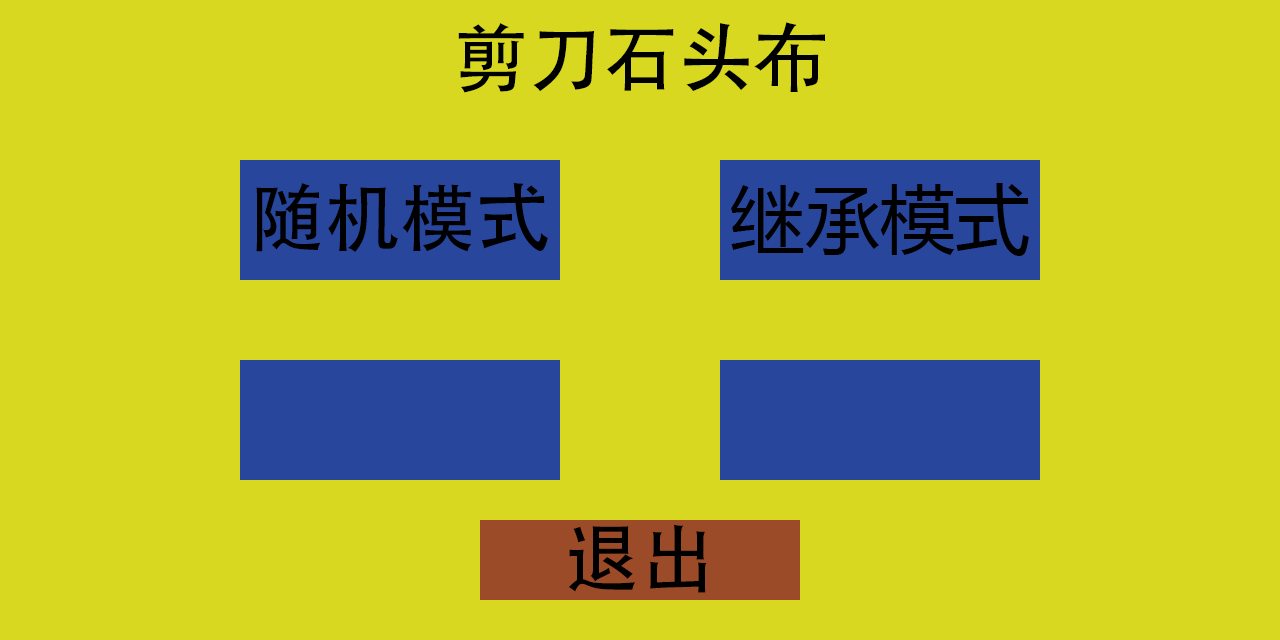
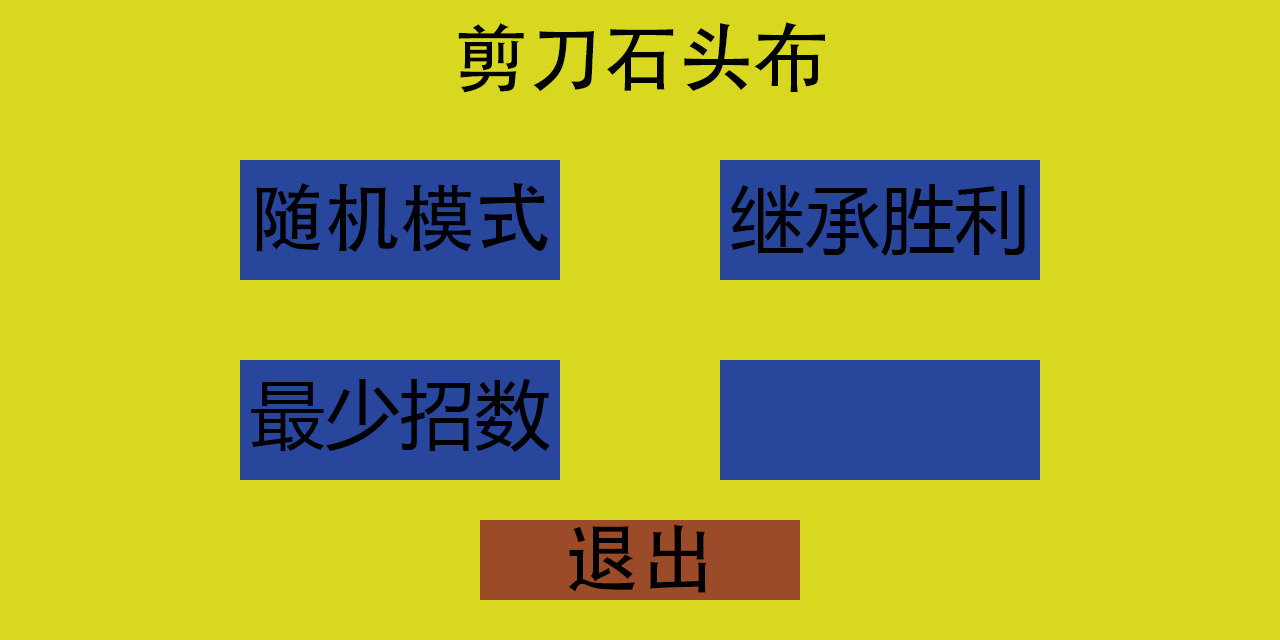
修改随机数的生成方式，新增最少招数的模式

Changed region(s): [[0.1875, 0.5938, 0.4375, 0.7188], [0.6875, 0.2812, 0.8125, 0.4062]]

diff --git a/class.cpp b/class.cpp
@@ -23,12 +23,19 @@ int Player::play()
 	return value;
 }
 
+int Player::random(int a, int b)
+{
+	random_device rd;
+	mt19937 gen(rd());
+	uniform_int_distribution<int32_t> distrib(a, b);
+	return distrib(gen);
+}
 
 //Random相关函数
 
 int Random::play()
 {
-	value = rand() % 3 + 1;
+	value = random(1, 3);
 	return value;
 }
 
@@ -43,11 +50,57 @@ int Inherit::play()
 	}
 	else
 	{
-		last_win_value = rand() % 3 + 1;
+		last_win_value = random(1, 3);
 	}
-	if(last_win_value == UNDEDINED_PLAY)
-		value = rand() % 3 + 1;
+	if (last_win_value == UNDEDINED_PLAY)
+		value = random(1, 3);
 	else
 		value = last_win_value;
+	return value;
+}
+
+//LeastUse相关函数
+
+int LeastUse::play()
+{
+	if (use[0] < 2 || use[1] < 2 || use[2] < 2)
+	{
+		value = random(1, 3);
+	}
+	else
+	{
+		if (use[0] == use[1] && use[0] == use[2] && use[1] == use[2])
+		{
+			value = random(1, 3);
+		}
+		else if (use[0] == use[1] && use[0] < use[2])
+		{
+			value = random(1, 2);
+		}
+		else if (use[0] == use[2] && use[0] < use[1])
+		{
+			value = (2 * random(0, 1)) + 1;
+		}
+		else if (use[1] == use[2] && use[1] < use[0])
+		{
+			value = random(2, 3);
+		}
+		else
+		{
+			if (use[0] < use[1] && use[0] < use[2])
+			{
+				value = 1;
+			}
+			else if (use[1] < use[0] && use[1] < use[2])
+			{
+				value = 2;
+			}
+			else
+			{
+				value = 3;
+			}
+		}
+	}
+	use[value - 1]++;
 	return value;
 }

diff --git a/UI.cpp b/UI.cpp
@@ -13,7 +13,7 @@ int open_msg(mouse_msg& msg)
 		}
 		if (msg.y <= 480 && msg.y >= 360)
 		{
-			return 0;
+			return LEASTUSE;
 		}
 	}
 	else if (msg.x >= 720)
@@ -56,7 +56,7 @@ int choose(mouse_msg& msg)
 
 void result(Player P_value, Player Cp_value)
 {
-	FRONT_OUTPUT_SET_NUMBER;
+	setfont(-50,0,_T("微软雅黑"));
 	setfillcolor(EGERGB(216, 216, 32));
 	setbkcolor(EGERGB(216, 216, 32));
 	last_result = Cp_value.get_value();
@@ -81,7 +81,7 @@ void result(Player P_value, Player Cp_value)
 		setfillcolor(EGERGB(48, 156, 40));
 		setbkcolor(EGERGB(48, 156, 40));
 		bar(880, 360, 1120, 440);
-		xyprintf(940, 370, "你赢了！");
+		xyprintf(950, 370, "你赢了！");
 		last_result += 20;
 	}
 	else
@@ -93,7 +93,7 @@ void result(Player P_value, Player Cp_value)
 		setfillcolor(EGERGB(48, 156, 40));
 		setbkcolor(EGERGB(48, 156, 40));
 		bar(880, 360, 1120, 440);
-		xyprintf(940, 370, "你输了！");
+		xyprintf(950, 370, "你输了！");
 		last_result += 30;
 	}
 	return;
@@ -139,7 +139,12 @@ void Pattern_init()
 	}
 	case INHERIT:
 	{
-		xyprintf(60, 480, "继承模式");
+		xyprintf(60, 480, "继承胜利");
+		break;
+	}
+	case LEASTUSE:
+	{
+		xyprintf(60, 480, "最少招数");
 		break;
 	}
 	}

diff --git a/main.h b/main.h
@@ -4,10 +4,11 @@
 #include <graphics.h>
 #include <Windows.h>
 #include <tchar.h>
-#define FRONT_OUTPUT_SET_NUMBER setfont(-60,0,_T("微软雅黑"))
+#include <random>
 using CP::Player;
 using CP::Random;
 using CP::Inherit;
+using CP::LeastUse;
 using namespace std;
 int open_msg(mouse_msg& msg);
 void play(mouse_msg& msg);

diff --git a/class.h b/class.h
@@ -42,6 +42,7 @@ namespace CP
 			else
 				return false;
 		}
+		int random(int a,int b);
 	protected:
 		int value;
 	};
@@ -57,5 +58,12 @@ namespace CP
 	public:
 		virtual int play();
 		static int last_win_value;
+	};
+	
+	class LeastUse : public Player
+	{
+	public:
+		virtual int play();
+		static int use[3];
 	};
 }

diff --git a/play.cpp b/play.cpp
@@ -19,6 +19,13 @@ void play(mouse_msg& msg)
 		Computer_value = v;
 		break;
 	}
+	case LEASTUSE:
+	{
+		LeastUse v;
+		v.play();
+		Computer_value = v;
+		break;
+	}
 	}
 	Print_Computer_Value(Computer_value);
 	result(Player_value, Computer_value);

diff --git a/main.cpp b/main.cpp
@@ -5,6 +5,7 @@ int win_value = 0;
 int lose_value = 0;
 int last_result = 0;
 int Inherit::last_win_value = 0;
+int LeastUse::use[3] = {};
 int main()
 {
 	srand(unsigned(time(NULL)));

diff --git a/head.h b/head.h
@@ -16,7 +16,8 @@ enum Open_Type
 {
 	UNDEDINED_OPEN,
 	RANDOM,
-	INHERIT
+	INHERIT,
+	LEASTUSE
 };
 
 extern int last_result;
